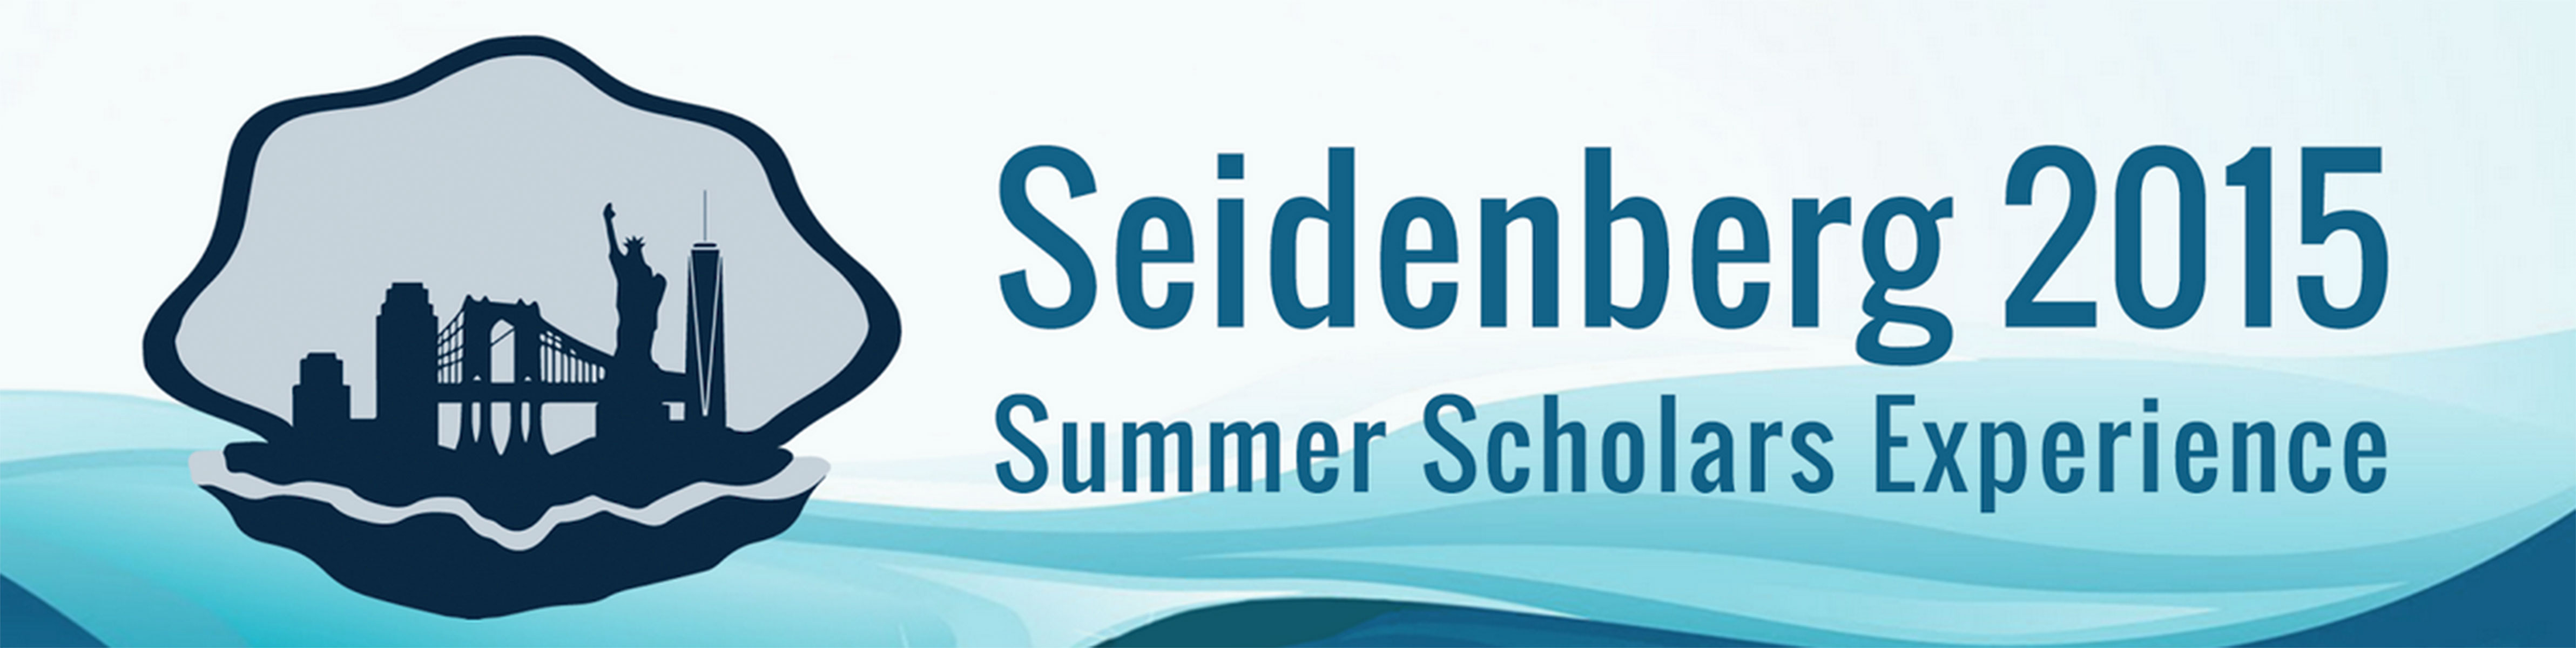
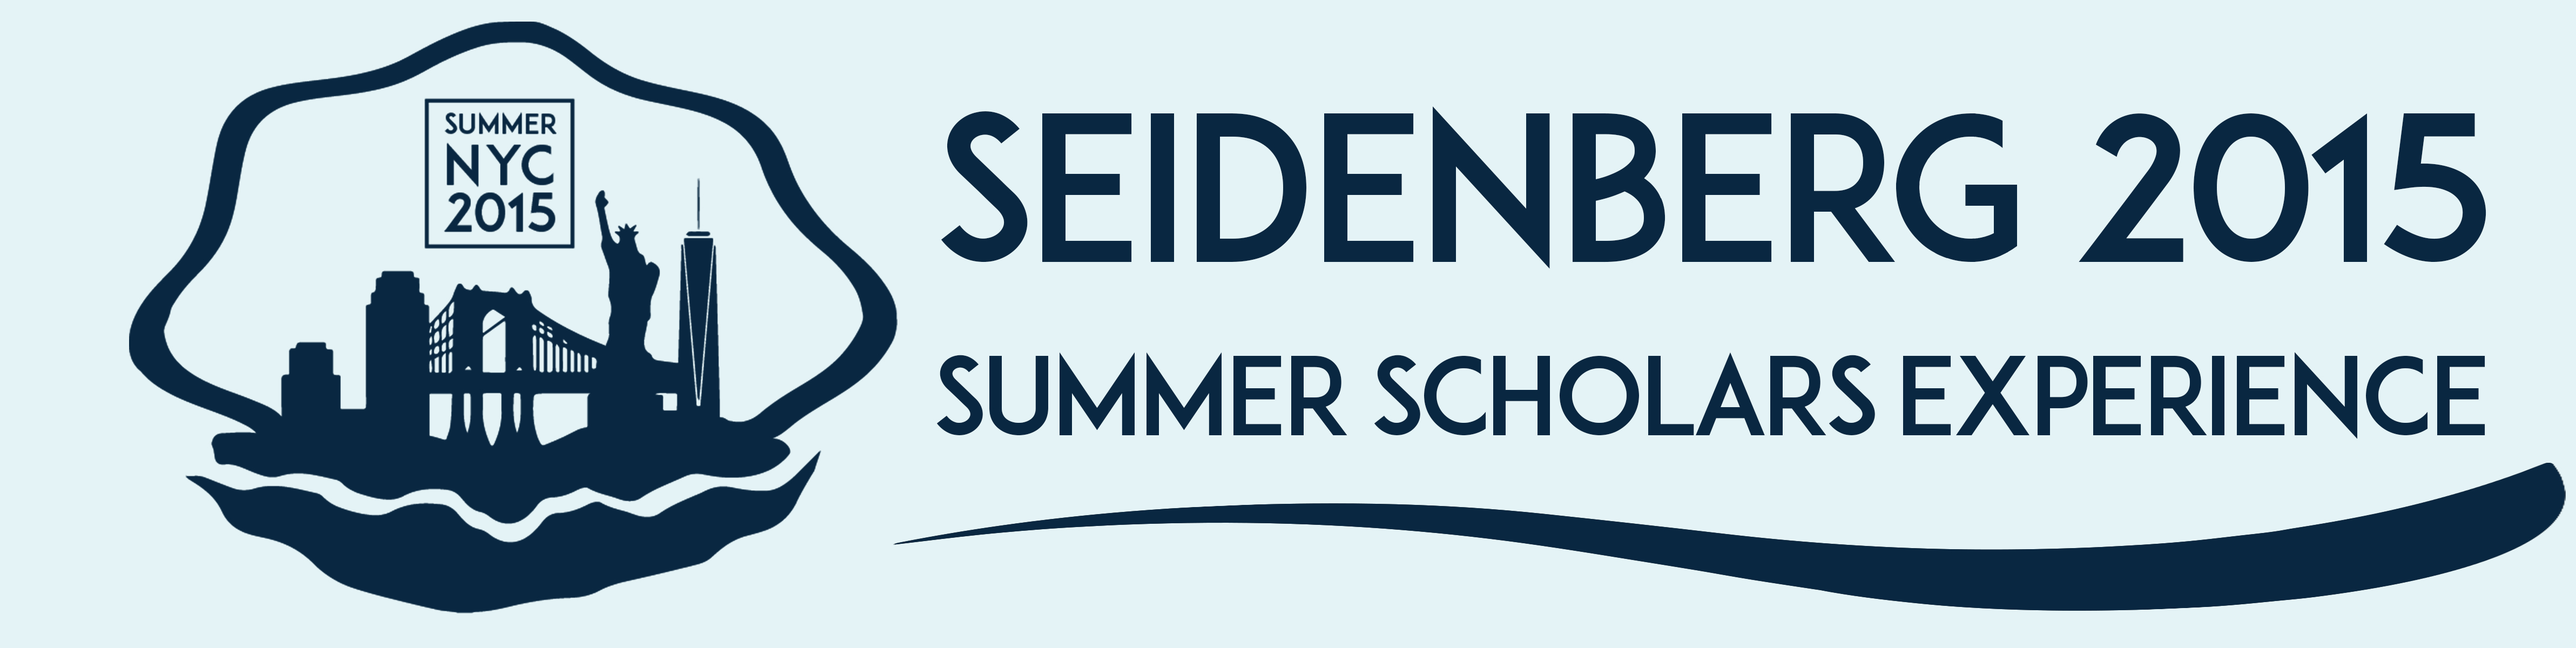
final push

diff --git a/day.css b/day.css
@@ -1,27 +1,33 @@
 /* CLEARFIX */
 
+body {
+    background-color: #e4f3f6;
+}
 *,h1,h2,h3,div{
   margin: 0;
   padding: 0;
 }
 .topname{
   text-align: center;
+    font-family: sans-serif;
+
 }
 
 .funclass {
   margin: 0 0 0.6em 0;
 }
 .funclass summary {
+  font-family: sans-serif;
   display: inine-block;
   padding: 0.3em 0.6em;
   width: auto;
   font-weight: bold;
-  text-shadow: 1px 1px 0 #ddddf7;
+  text-shadow: 1px 1px 0 #092741;
   cursor: pointer;
-  background: #b3b3ee linear-gradient(to bottom, #c8c8f3 48%, #b3b3ee 52%);
-  border: solid 1px #7575e0;
+  background-color: #092741;
+  border: solid 1px #092741;
   border-radius: 0.3em;
-  color: midnightblue;
+  color: #e4f3f6;
   user-select: none;
 }
 .funclass summary .details-open-indicator {
@@ -60,7 +66,7 @@
 .funclass[open] summary {
   color: #101046;
   text-shadow: none;
-  background: #8a8ae5;
+  background: #e4f3f6;
   border-radius: 0.3em 0.3em 0 0 ;
 }
 .funclass[open] summary:before {
@@ -78,7 +84,7 @@
   color: blue
 }
  a:visited{
-  color:red
+  color:#092741
 
 }
 
@@ -92,8 +98,10 @@
   }
   .namer{
     width:60%;
-    background-color: red;
+    background-color: #092741;
     margin-left: 20%;
+    color: #e4f3f6;
+
 
   }
   .detsed{

diff --git a/style.css b/style.css
@@ -1,29 +1,50 @@
 /* CLEARFIX */
 
-*,h1,h2,h3,div{
+*,
+
+<br>
+
+
+h1,h2,h3,div{
   margin: 0;
   padding: 0;
-}
 
+}
+body {
+    background-color: #e4f3f6;
+}
 .topname{
+  font-family: sans-serif;
+  font-weight: normal;
+  border: 3px solid #092741;
   text-align: center;
   font-size: 2em;
-  color: blue;
+  color: #e4f3f6;
 }
 ul.menu{
   content: "\2022";
-  font-family: FontAwesome;
+  font-family: sans-serif;
   margin-right: 10px;
   display: inline;
   vertical-align: middle;
   font-size: 1.6em;
-  font-weight: normal;
+  font-weight: lighter;
 }
 li.dayno{
   list-style-type: none;
   text-align: center;
-  background-color: lightgreen;
+  background-color: #092741;
+  border: 3px solid #092741;
   margin:20px 10px 20px 10px;
+}
+
+ a:link {
+    color: #e4f3f6;
+}
+
+/* visited link */
+a:visited {
+    color: #e4f3f6;
 }
 li.dayno > a {
   text-decoration: none;
@@ -38,7 +59,7 @@ li.dayno > a {
   }
   .namer{
     width:60%;
-    background-color: red;
+    background-color: #092741;
     margin-left: 20%;
 
   }
@@ -63,7 +84,7 @@ li.dayno > a {
 
   .namer{
     width:100%;
-    background-color: red;
+    background-color: #93dbe9;
 
   }
 }
